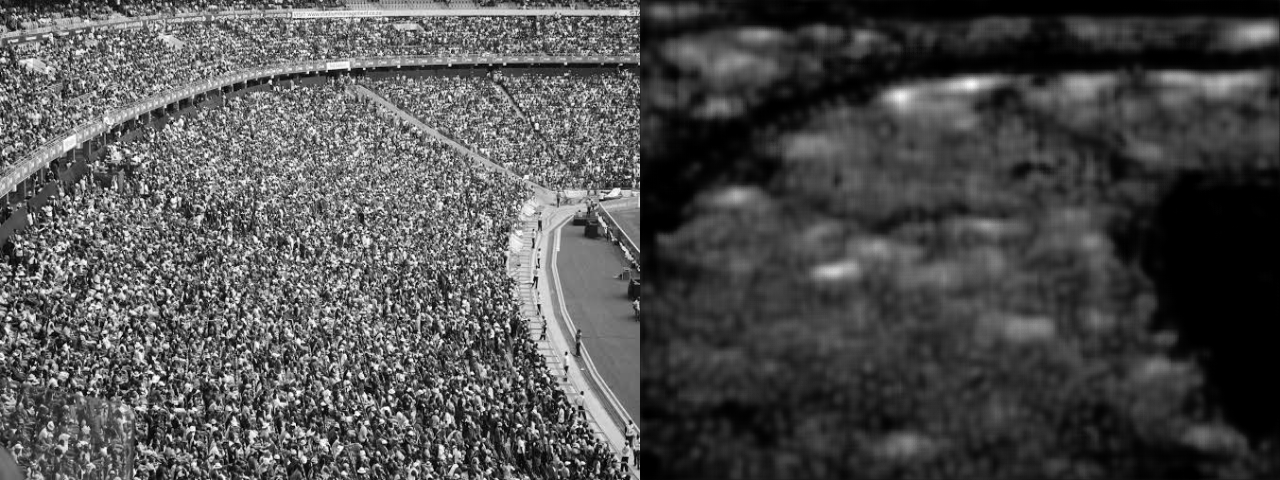
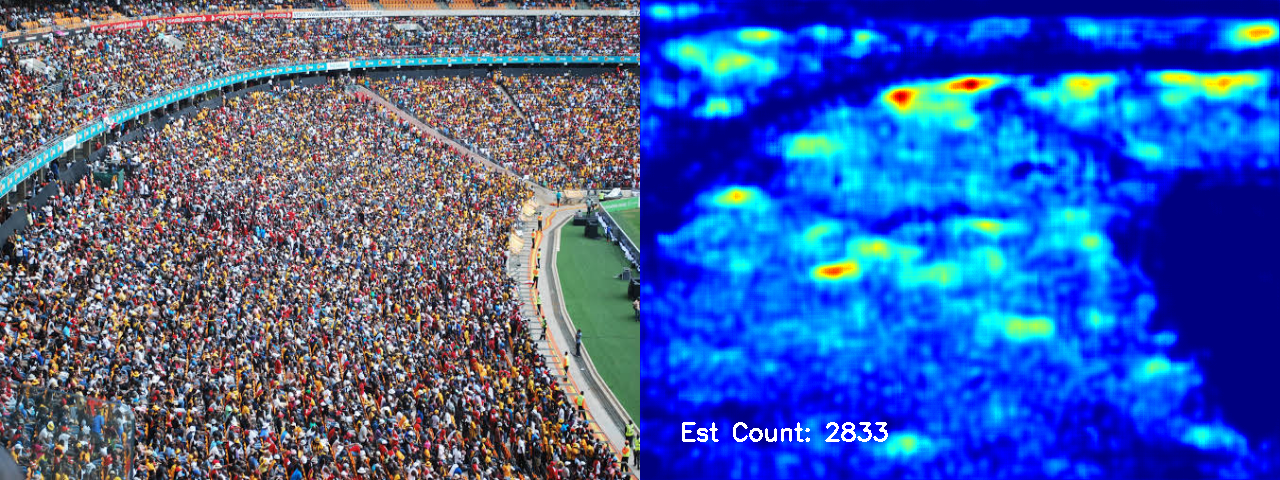
UPD: show estimated count & coloring heatmap

diff --git a/crowdcount-cascaded-mtl/crowdcount.py b/crowdcount-cascaded-mtl/crowdcount.py
@@ -4,10 +4,15 @@ import urllib.request
 
 import cv2
 import numpy as np
+import seaborn as sns
+import matplotlib.pyplot as plt
 
 import ailia
 
-# TODO adapting 96 and 226
+
+# Img size is decided when exporting model (modifiable when exporting)
+width = 640
+height = 480
 
 # img_path = input("input image name: ")
 img_path = "test.jpeg"
@@ -22,17 +27,21 @@ if not os.path.exists(weight_path):
     urllib.request.urlretrieve(rmt_ckpt + weight_path, weight_path)
 
 
-def read_image(fname):
+def read_image(fname, shape=(width, height)):
     img = cv2.imread(fname, cv2.IMREAD_GRAYSCALE)
     img = img.astype(np.float32, copy=False)
-    # Img size is decided when exporting model (modifiable when exporting)
-    img = cv2.resize(img, (640, 480))  
+    img = cv2.resize(img, shape)  
     img = img.reshape((1, 1, img.shape[0], img.shape[1]))
     return img
 
 
 # load image
 img = read_image(img_path)
+org_img = cv2.resize(
+    # cv2.cvtColor(cv2.imread(img_path), cv2.COLOR_BGR2RGB),
+    cv2.imread(img_path),
+    (width, height)
+)
 
 # net initialize
 env_id = ailia.get_gpu_environment_id()
@@ -46,11 +55,41 @@ for i in range(3):
     end = int(round(time.time() * 1000))
     print("ailia processing time {} ms".format(end - start))
 
-density_map = (255 * preds_ailia / np.max(preds_ailia))[0][0]
-res_img = img[0][0]
-if density_map.shape != res_img.shape:
-    density_map = cv2.resize(density_map, (res_img.shape[1], res_img.shape[0]))
-res_img = np.hstack((res_img, density_map))
-cv2.imwrite('result.png', res_img)
+# estimated crowd count
+et_count = int(np.sum(preds_ailia))
 
+# density map
+density_map = (255 * preds_ailia / np.max(preds_ailia))[0][0]
+density_map = cv2.resize(density_map, (width, height))
+heatmap = cv2.applyColorMap(density_map.astype(np.uint8), cv2.COLORMAP_JET)
+cv2.putText(
+    heatmap,
+    f'Est Count: {et_count}',
+    (40, 440),  # position
+    cv2.FONT_HERSHEY_SIMPLEX,  # font
+    0.8,  # fontscale
+    (255, 255, 255),  # color
+    2  # thickness
+)
+
+res_img = np.hstack((org_img, heatmap))
+cv2.imwrite('result.png', res_img)
 print('Successfully finished !')
+
+
+# # matplotlib & seaborn version to generate heatmap
+# fig, axes = plt.subplots(nrows=1, ncols=2, figsize=(17, 6))
+# plt.subplots_adjust(wspace=0.1)
+# axes[0].imshow(org_img)
+# axes[0].axis('off')
+
+# sns.heatmap(density_map, cmap='RdBu_r', cbar=False)
+# axes[1].text(
+#     50, 600,
+#     f'Est Count: {et_count}',
+#     color='white',
+#     fontsize='larger'
+# )
+# axes[1].axis('off')
+
+# plt.savefig('result.png', bbox_inches='tight', pad_inches=0.1)
